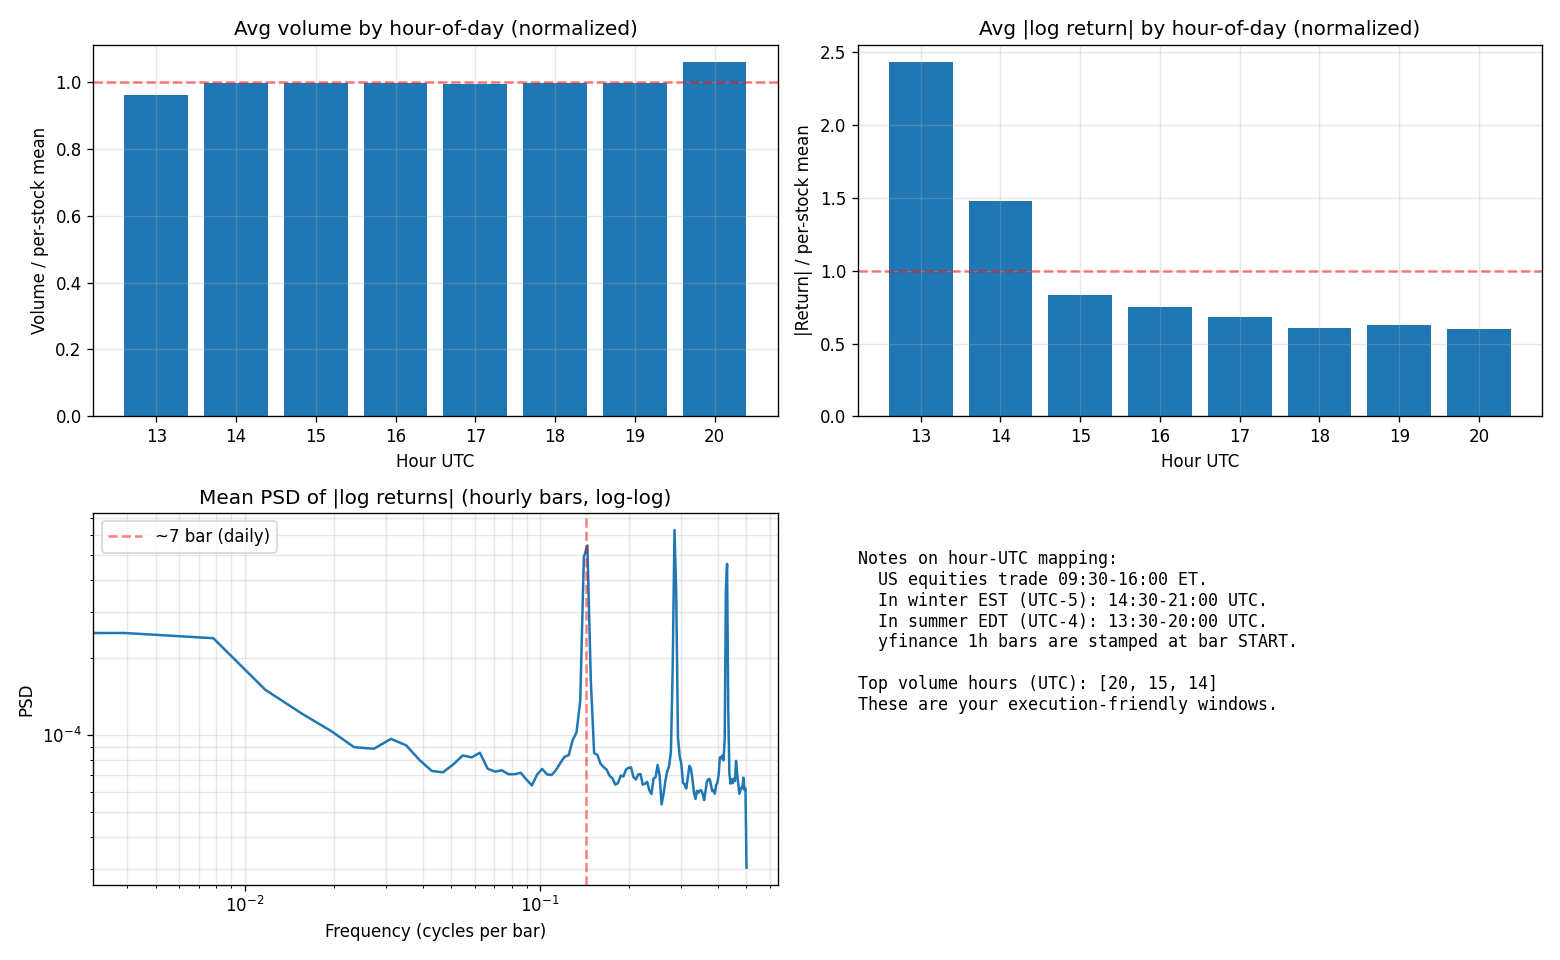
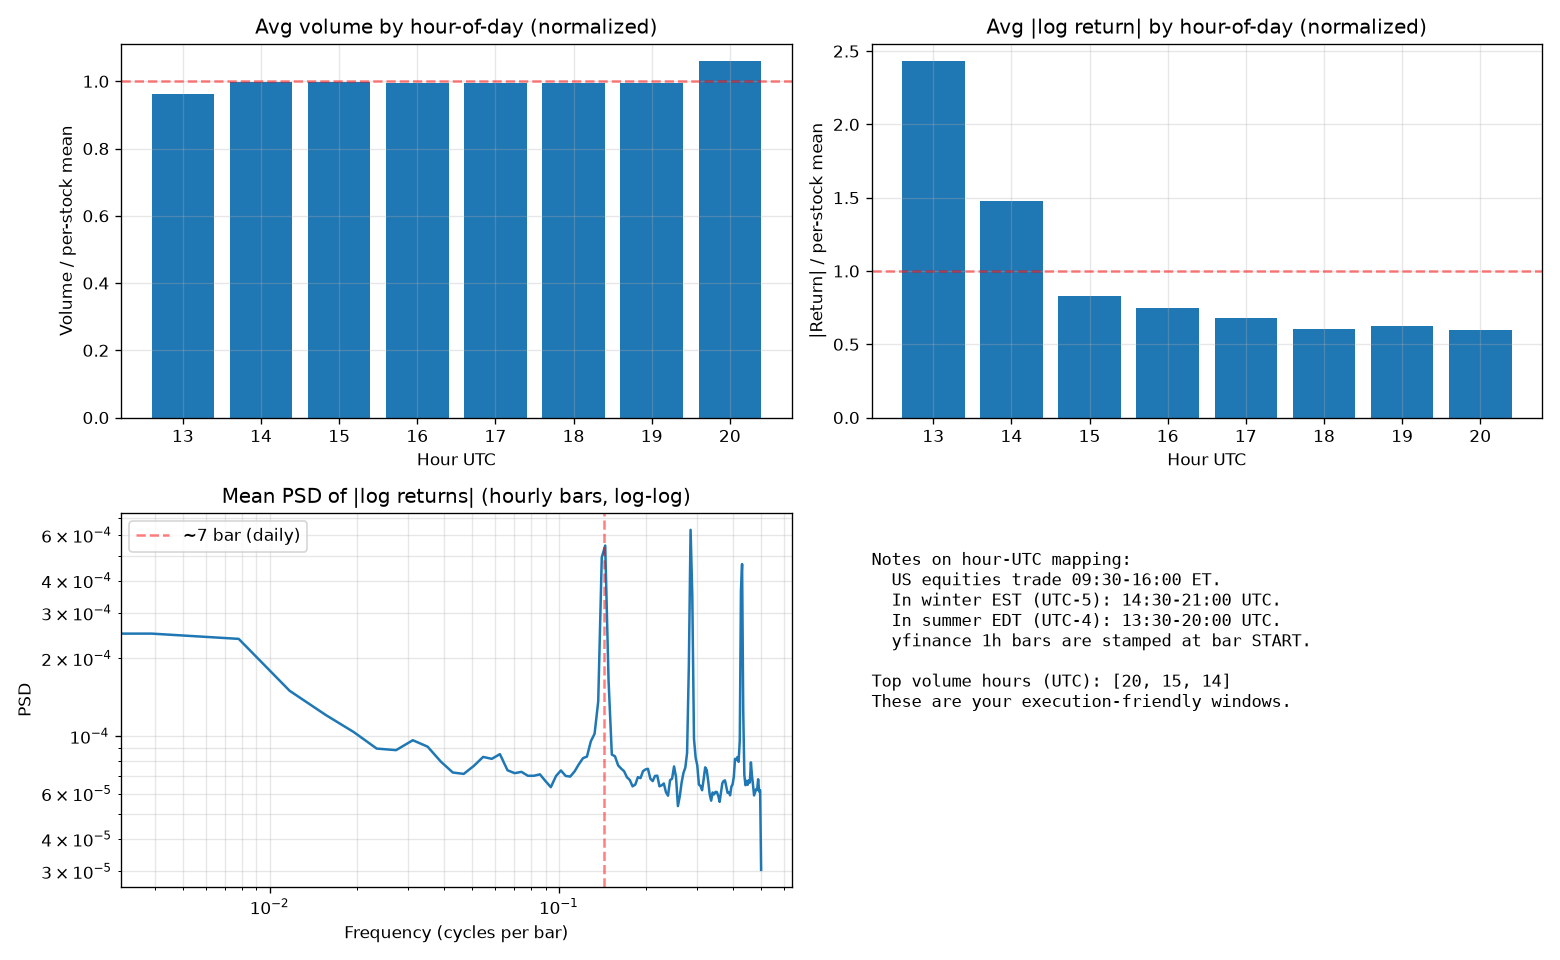
Sync requirements.txt with reality; pin the intraday scripts
requirements.txt listed pywavelets, nolds, ccxt and jupyterlab -- none of
which anything imports -- while omitting three packages that are actually
required: pyarrow (the parquet engine behind .data_cache/), lightgbm
(script 07) and scikit-learn (its fallback). A clean checkout following the
README could not have run script 07 or written a cache file. Rewritten to
the real dependency set, with the versions the Round 4-5 numbers were
produced on recorded as comments.

Scripts 06 and 11 were the two that did not take --end, so the README's
"every script takes --end" was false. Both now take --end/--days, and
load_hourly_ohlcv takes an explicit end rather than reading the clock.

But pinning them does not make them reproducible, and the README now says
so plainly: yfinance serves 1h bars for a rolling ~730-day window only, so
once that window passes a pinned --end the intraday result cannot be
regenerated from the data source at all -- the committed CSVs are the only
record. Script 01 is synthetic-only and correctly needs no --end.

Verified script 06 still reproduces the 2.43x open-hour |return| figure
against the cached 2024-05-20..2026-04-20 window.

diff --git a/scripts/11_execution_backtest.py b/scripts/11_execution_backtest.py
@@ -20,6 +20,7 @@ fitted on first 350 days; test on last 350 days.
 Usage:
     python3 scripts/11_execution_backtest.py
 """
+import argparse
 import sys
 import time
 from pathlib import Path
@@ -38,10 +39,15 @@ RESULTS = REPO / "results"
 RESULTS.mkdir(exist_ok=True)
 
 
-def load_hourly_ohlcv(tickers: list, days: int = 700) -> pd.DataFrame:
-    """Return multi-level DataFrame (hour_ts, ticker) -> (Open, High, Low, Close, Volume)."""
-    end = pd.Timestamp.today().strftime("%Y-%m-%d")
-    start = (pd.Timestamp.today() - pd.Timedelta(days=days)).strftime("%Y-%m-%d")
+def load_hourly_ohlcv(tickers: list, days: int = 700, end: str | None = None) -> pd.DataFrame:
+    """Return multi-level DataFrame (hour_ts, ticker) -> (Open, High, Low, Close, Volume).
+
+    `end` pins the window for reproducibility, but yfinance's 1h history is a
+    rolling ~730-day window: an `end` older than that returns nothing.
+    """
+    end_ts = pd.Timestamp(end) if end else pd.Timestamp.today()
+    end = end_ts.strftime("%Y-%m-%d")
+    start = (end_ts - pd.Timedelta(days=days)).strftime("%Y-%m-%d")
     df = yf.download(
         tickers, start=start, end=end, interval="1h",
         auto_adjust=True, progress=False, group_by="ticker", threads=True,
@@ -117,9 +123,15 @@ def strategy_costs(day_df: pd.DataFrame, profile: pd.Series) -> dict:
 
 
 def main():
+    ap = argparse.ArgumentParser()
+    ap.add_argument("--end", default=None, help="pin for reproducibility (default: today)")
+    ap.add_argument("--days", type=int, default=700,
+                    help="lookback; yfinance serves at most ~730 days of 1h bars")
+    args = ap.parse_args()
+
     tickers = liquid_watchlist()
-    print(f"Loading hourly bars for {len(tickers)} tickers, last 700 days...")
-    raw = load_hourly_ohlcv(tickers, days=700)
+    print(f"Loading hourly bars for {len(tickers)} tickers, last {args.days} days...")
+    raw = load_hourly_ohlcv(tickers, days=args.days, end=args.end)
 
     if isinstance(raw.columns, pd.MultiIndex):
         tickers_ok = [t for t in tickers if (t, "Close") in raw.columns]

diff --git a/scripts/06_intraday_seasonality.py b/scripts/06_intraday_seasonality.py
@@ -12,6 +12,7 @@ Not a directional strategy on its own - execution alpha.
 Usage:
     python3 scripts/06_intraday_seasonality.py
 """
+import argparse
 import sys
 from pathlib import Path
 
@@ -47,12 +48,21 @@ def seasonality_by_hour(ohlcv_close: pd.Series, volume: pd.Series) -> pd.DataFra
 
 
 def main():
+    ap = argparse.ArgumentParser()
+    ap.add_argument("--end", default=None, help="pin for reproducibility (default: today)")
+    ap.add_argument("--days", type=int, default=700,
+                    help="lookback; yfinance serves at most ~730 days of 1h bars")
+    args = ap.parse_args()
+
     tickers = liquid_watchlist()
     print(f"Loading 1-hour bars for {len(tickers)} watchlist tickers (max 730 days)...")
 
-    # yfinance 1h interval limitation: ~730 days
-    end = pd.Timestamp.today()
-    start = (end - pd.Timedelta(days=700)).strftime("%Y-%m-%d")
+    # NOTE: --end only pins the run against the CACHE. yfinance's 1h history is
+    # a rolling ~730-day window, so a cache miss for an old --end returns
+    # nothing. Intraday results here are reproducible only while the cache
+    # survives; see README "Reproducibility".
+    end = pd.Timestamp(args.end) if args.end else pd.Timestamp.today()
+    start = (end - pd.Timedelta(days=args.days)).strftime("%Y-%m-%d")
     end_str = end.strftime("%Y-%m-%d")
 
     close_prices = load_prices(tickers, start=start, end=end_str, interval="1h", field="Close")

diff --git a/README.md b/README.md
@@ -67,13 +67,30 @@ python3 scripts/12_estimator_power.py --end 2026-08-31
 python3 scripts/13_bariviera_btc.py --end 2026-08-31
 ```
 
-**Reproducibility.** Every script takes `--end`; pass it to pin a run
-(`--end 2026-04-20` reproduces the Round 1-3 numbers, `--end 2026-08-31`
-the Round 4 re-run). Left unset, `end` defaults to *today*, so the sample
-silently grows and numbers drift. Two things are still not pinned: package
-versions (no lockfile) and the S&P constituent lists, which
-`universe.py` scrapes live from Wikipedia - so a future clean checkout may
-get a different universe than the one behind these results.
+**Reproducibility.** Every script that touches market data takes `--end`;
+pass it to pin a run (`--end 2026-04-20` reproduces the Round 1-3 numbers,
+`--end 2026-08-31` the Round 4-5 re-run). Script 01 is synthetic-only and
+needs none. Left unset, `end` defaults to *today*, so the sample silently
+grows and numbers drift.
+
+Three things are still not fully pinned:
+
+- **Package versions.** No lockfile. `requirements.txt` records the versions
+  the Round 4-5 numbers came from as comments (python 3.13.12, numpy 2.4.3,
+  pandas 2.3.3, scipy 1.18.1, statsmodels 0.15.0, yfinance 1.7.0,
+  lightgbm 4.7.0).
+- **Universe membership.** `universe.py` scrapes S&P constituents live from
+  Wikipedia, so a future clean checkout may get a different universe - and a
+  different `.data_cache/` key - than the one behind these results.
+- **Intraday data (scripts 06 and 11).** yfinance serves 1h bars for only a
+  rolling ~730-day window, so `--end` pins these runs only while the parquet
+  cache survives. Once the window rolls past a pinned `--end`, that intraday
+  result is *unreproducible from the data source*, full stop. The committed
+  CSVs in `results/` are the only remaining record.
+
+The S&P 600 row of the findings table is pinned at `--end 2026-04-20`
+(the cached 603-ticker sample) because refetching 603 tickers is slow and
+rate-limited; the cost-model correction is the only thing that moved it.
 
 ## Findings (audited 2026-09-01; data through 2026-08-28)
 
